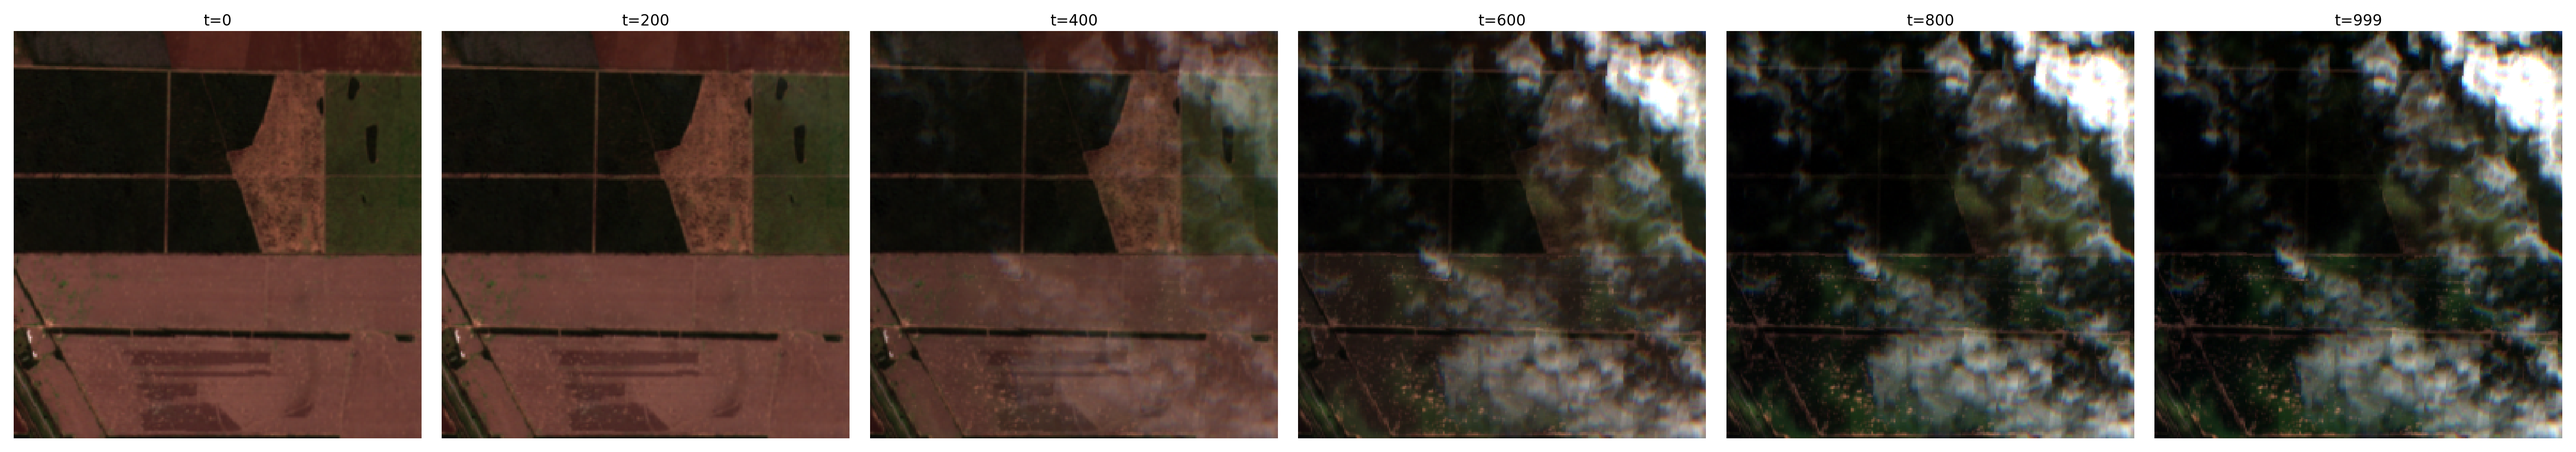
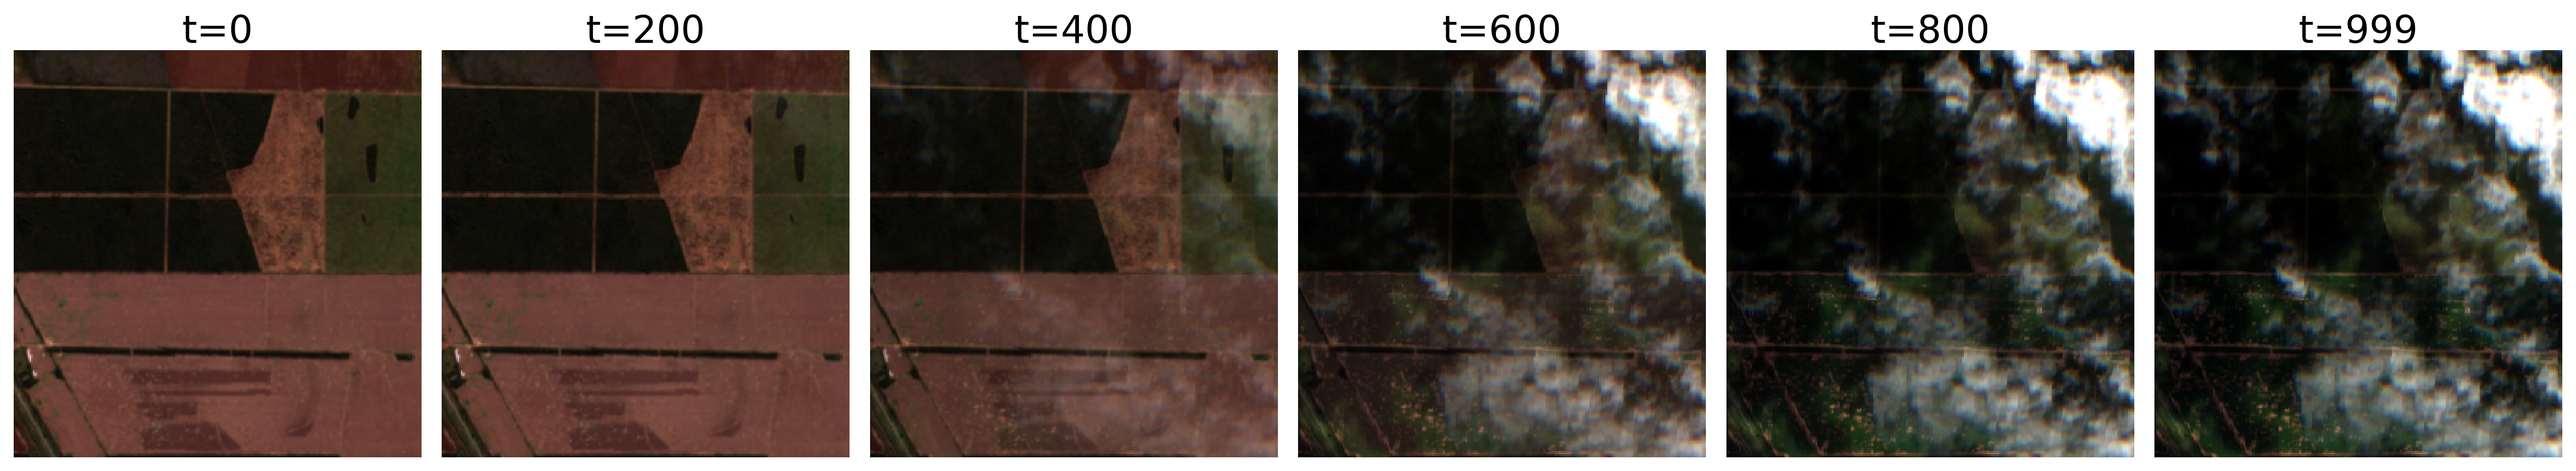
ahora si!

diff --git a/visualize/visualize_outputs.py b/visualize/visualize_outputs.py
@@ -149,10 +149,9 @@ def make_figure(models, dataset, device):
                 if row == 0:
                     ax.set_title(COL_LABELS[col], fontsize=10, pad=6)
 
-    plt.savefig(f"imgs/comparacion_modelos2.png", bbox_inches="tight", dpi=150)
-    print("Figura guardada en imgs/comparacion_modelos2.png")
+    plt.savefig(f"imgs/comparacion_modelos_2.png", bbox_inches="tight", dpi=150)
+    print("Figura guardada en imgs/comparacion_modelos_2.png")
     plt.close()
-
 
 if __name__ == "__main__":
     device = torch.device("cuda" if torch.cuda.is_available() else "cpu")

diff --git a/visualize/visualize_noise.py b/visualize/visualize_noise.py
@@ -91,7 +91,7 @@ def build_figure(rows):
             ax = fig.add_subplot(gs[row_idx, col])
             if img is not None:
                 ax.imshow(to_rgb(img, stats=stats))
-                ax.set_title(f"t={t_val}", fontsize=16, pad=3)
+                ax.set_title(f"t={t_val}", fontsize=20, pad=3)
             else:
                 ax.set_visible(False)
             ax.axis("off")
